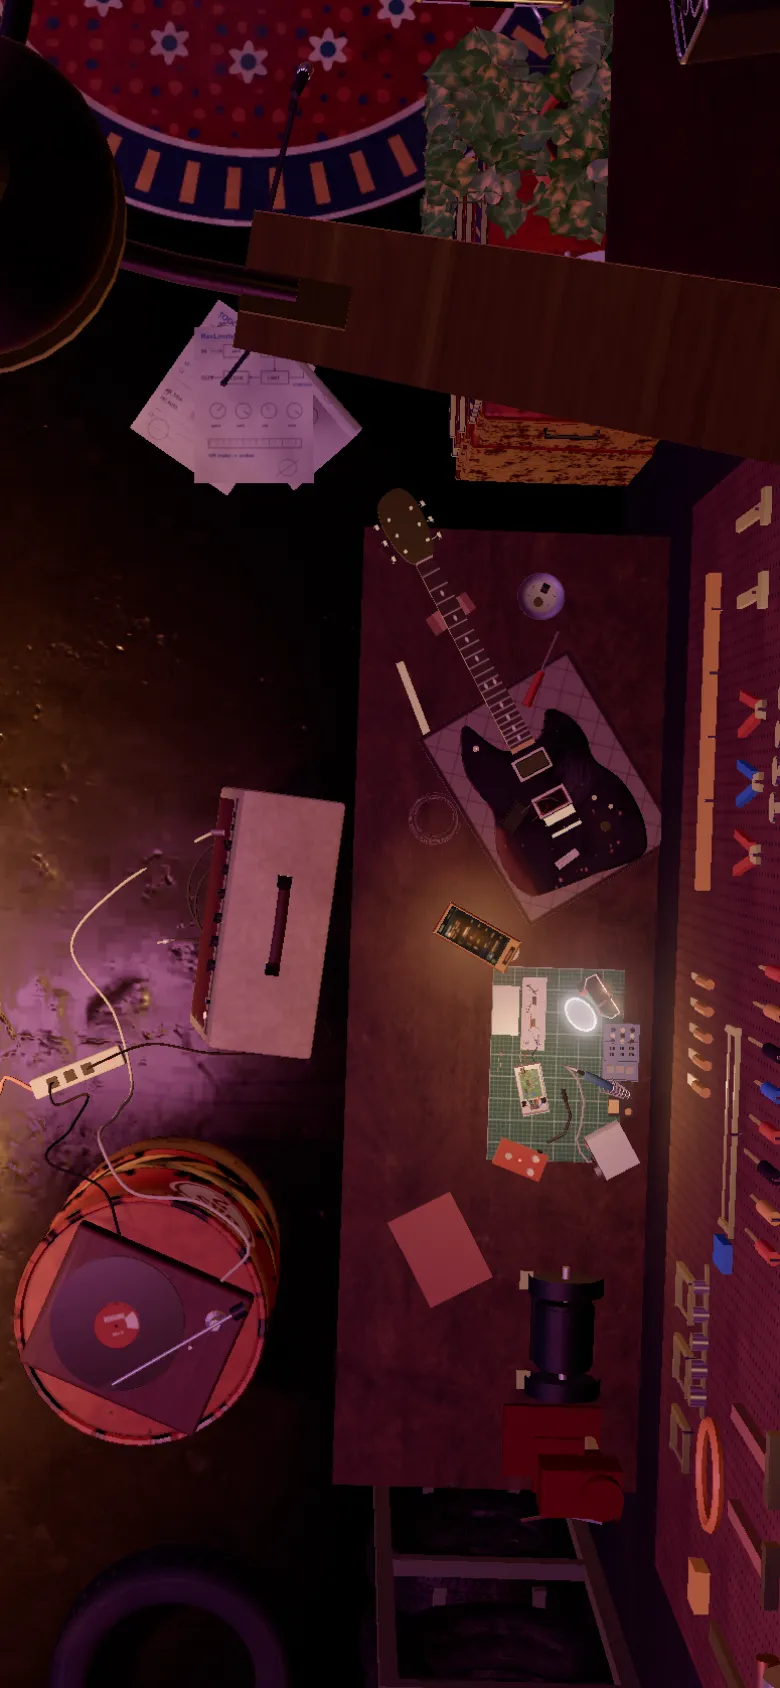
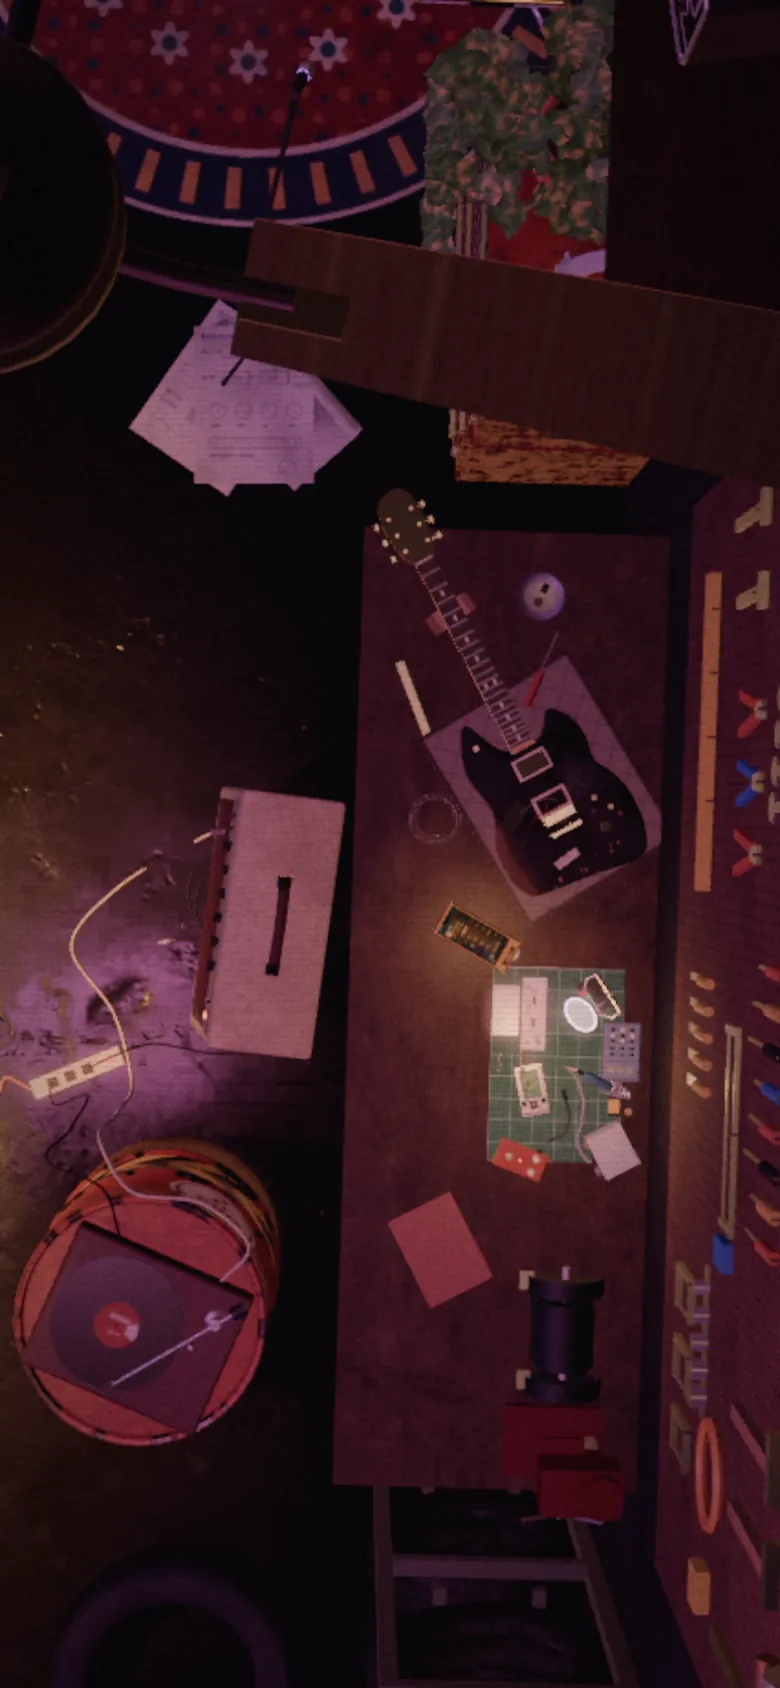
Phone garage: the laptop's VHS, its live room and its walk feel on the dive
Dan 2026-11-24: "all the things we did to the laptop already, like the VHS, and the laptop scroll, and everything should
be applied to the phone".
- room.html ?dive&live: the phone's opening runs the room live as the laptop does (the look's grain moves, the lights
  hum and flicker, the dust, the governor for weak machines); without &live (recordings, stills) it stays the still.
  The look follows the dive (R.lookP, set by the page): VHS eases off from 60 % and is sharp by 88 %, as before the
  laptop's TV, so the phone's screen is crisp at the lock. Every light on from the first frame under ?dive: the live
  room took over the lit first picture dark and warmed up for ~1.5 s (also before this branch).
- phone-dive.html: ?look= is the room's look (vhs default | today | vhs-more), as on the laptop's home page; the phone's
  own look moved to ?body=. The first picture (assets/dive/open-390.webp) re-rendered from the room in VHS.
- The walk's feel (HomeOpening.astro FEEL, Dan's numbers of 11-23, in screens a second): a phone's momentum can't be
  slowed, so the camera is limited (3.6 screens/s) and the page waits for it on the phone's screen: a scroll by hand
  that crosses the lock with the camera still on its way, or that came in faster than 4.6 screens/s, is held on the lock
  (overflow held: it ends the momentum) until the camera lands, a fast one 0.9 s; a move back up lets go at once.
  ?top= ?holdOver= ?holdMs= try other numbers on a phone.
[…]

diff --git a/tools/_home-opening/phone-dive.html b/tools/_home-opening/phone-dive.html
@@ -19,7 +19,8 @@
        ?full       the whole room instead of its phone cut (room.html ?dive), to compare the two
        ?auto       the dive plays itself, down and back (?auto=14: seconds one way)
        ?debug      the scroll's numbers on the picture
-       ?look=shop  the phone's look: brass | shop | radio; ?looks = the three as buttons on the picture
+       ?look=today the room's look, as on the laptop's home page: vhs (the default, Dan's pick 2026-11-18) | today | vhs-more
+       ?body=shop  the phone's own look: brass | shop | radio; ?looks = the three as buttons on the picture
        ?abc        the three versions of the turn as buttons (Dan picked B) -->
 <link rel="preconnect" href="https://fonts.googleapis.com">
 <link rel="preconnect" href="https://fonts.gstatic.com" crossorigin>
@@ -141,7 +142,9 @@ const reduced = matchMedia('(prefers-reduced-motion: reduce)').matches;
 const $ = (id) => document.getElementById(id);
 const frame = $('room'), box = $('box');
 // the room in its phone cut (room.html ?dive: only what this camera sees is loaded); ?full = the whole room, to compare
-frame.src = 'room.html?capture=0&expose' + (Q.has('full') ? '' : '&dive');
+// the room's look, as on the laptop's home page (?look=today | vhs | vhs-more; the room's default is VHS, Dan's pick 2026-11-18)
+const ROOM_LOOK = ['today', 'vhs', 'vhs-more'].includes(Q.get('look')) ? Q.get('look') : null;
+frame.src = 'room.html?capture=0&expose' + (Q.has('full') ? '' : '&dive') + (REC ? '' : '&live') + (ROOM_LOOK ? '&look=' + ROOM_LOOK : ''); // &live: the room runs live as on the laptop (grain, lights, dust, governor); a recording keeps it still
 const clamp = (v, a = 0, b = 1) => Math.min(b, Math.max(a, v));
 const smooth = (a, b, v) => { const t = clamp((v - a) / (b - a)); return t * t * (3 - 2 * t); };
 const easeIO = (t, k) => (t < 0.5 ? Math.pow(2 * t, k) / 2 : 1 - Math.pow(2 * (1 - t), k) / 2);
@@ -158,7 +161,7 @@ const V = (x, y, z) => new THREE.Vector3(x, y, z);
 // ---- the phone, its light, the guitar, the deck, the amp and the second fan are the ROOM's (assets/dive/set.js: the laptop walk has them too). This page aims its camera at the phone. ----
 const SETR = R.set, S = SETR.screen, phone = SETR.phone, fan2 = SETR.fan2; DIVE.phone = SETR.place;
 const setLook = (name) => { if (!SETR.looks.includes(name)) return; if (name !== SETR.look) SETR.setLook(name); DIVE.look = name; for (const b of document.querySelectorAll('[data-look]')) b.setAttribute('aria-pressed', String(b.dataset.look === name)); };
-setLook(SETR.looks.includes(Q.get('look')) ? Q.get('look') : SETR.look); // ?look=brass|shop|radio
+setLook(SETR.looks.includes(Q.get('body')) ? Q.get('body') : SETR.look); // ?body=brass|shop|radio (the phone's own look; ?look= is the room's, as on the home page)
 if (REC) R.modelAnims = (R.modelAnims || []).filter((a) => a.o !== SETR.platter && a.o !== fan2?.userData.rotor); // a recording turns the fan itself (set) and holds the record still
 w.__room.arrange(); // the shadows once more, with the phone in them
 
@@ -229,6 +232,7 @@ if (REC || !Q.has('abc')) $('abc').hidden = true; // Dan picked B: the buttons a
 const liveEl = $('live'), render0 = w.__room.composer.render.bind(w.__room.composer); let liveK = 0, liveSet = -1;
 w.__room.composer.render = (...a) => { if (liveK < 1) render0(...a); };
 function draw(p, dt = 0.016) {
+  if (R.lookP !== p) { R.lookP = p; R.lookMovedAt = performance.now(); } // the room's look follows the dive (VHS eases off before the screen fills the picture, as before the laptop's TV)
   const st = pose(p); shown = p;
   const landed = p >= 0.9995;
   liveK = !landed ? Math.max(0, liveK - dt / 0.1) : REC || hold > 0.35 ? 1 : Math.min(1, liveK + dt / 0.12); // (a fling through the hold: on at once, never caught half-way)
@@ -247,22 +251,51 @@ if (Q.has('auto')) { // ?auto (or ?auto=14: seconds one way): the page scrolls i
 if (Q.has('debug')) { $('dbg').hidden = false; setInterval(() => { $('dbg').textContent = `page scroll ${Math.round(scrollY)} of ${Math.round(walkPx())}\nframe scroll ${Math.round(w.scrollY)}\ndive ${Math.round(shown * 100)} %  camera ${camera.position.y.toFixed(2)} m\nscreen ${innerWidth} x ${innerHeight}`; }, 200); }
 readScroll(); draw(REC ? 0 : target);
 // A thumb's scroll is already smooth (the browser eases its momentum), so on touch the picture follows it almost directly; a mouse wheel comes in steps and gets more easing.
-// Either way the landing is exact: the nearer the scroll is to the end of the dive, the less the picture may trail it, and at the end not at all,
-// so the pinned picture never starts to slide away with the dive still on its way (measured before: up to 35 frames and a fifth of the dive).
+// THE WALK'S FEEL, from the laptop (HomeOpening.astro FEEL, Dan's numbers of 2026-11-23: "I scroll really fast. I want it to be like a limit", and at the
+// screen "it locks him up a little bit ... so he can stay on the main screen"). A phone's scroll is the browser's own momentum, which no page can slow,
+// so here the limit is the CAMERA's: it travels the dive at most FEEL.top screens a second, and the page waits for it at the phone's screen:
+// - the catch: a scroll that crosses the lock (the end of the dive) while the camera is still on its way, or faster than FEEL.holdOver screens a second,
+//   is stopped on the lock (the page's overflow held for that moment: that ends the browser's momentum) and let go once the camera has landed, and a fast
+//   one only FEEL.holdMs after the catch. A move back up lets go at once. Nothing else of the page's scroll changes.
+// - so the landing stays exact: the picture never slides away with the dive still on its way (measured before: up to 35 frames and a fifth of the dive).
+//   Where the hold can't take (the page already past the lock), the camera follows with no trailing, as before.
+// The laptop's numbers in screens: 2,400 px/s and 3,100 px/s over its 612-734 px windows. ?top= ?holdOver= ?holdMs= try others on a phone (no bench there).
+const FEEL = { top: 3.6, holdOver: 4.6, holdMs: 900 };
+for (const k of Object.keys(FEEL)) if (Q.has(k) && isFinite(+Q.get(k)) && +Q.get(k) > 0) FEEL[k] = +Q.get(k);
+const HTML = document.documentElement, scr = () => innerHeight; // (a screen: the window's height, as the laptop's px/s were)
+let vel = 0, vPeak = 0, lastY = scrollY, lastYAt = performance.now(), held = 0, heldFast = false, touchY = null, inputAt = -1e9;
+const byHand = (now) => touchY != null || now - inputAt < 3000; // a thumb on the glass, its momentum (up to ~3 s), or a wheel: never a link's or a script's jump (the laptop's hold is the wheel's alone)
+const release = () => { if (!held) return; held = 0; HTML.style.overflow = ''; };
+addEventListener('scroll', () => {
+  const now = performance.now(), y = scrollY, dy = y - lastY, dms = Math.max(8, now - lastYAt);
+  if (now - lastYAt > 150) vPeak = 0; // (a new scroll: its own top speed)
+  vel = 0.5 * vel + 0.5 * (dy / dms * 1000); vPeak = Math.max(vPeak, vel); lastY = y; lastYAt = now; // px a second, two events averaged; the top speed of this scroll (as the laptop's: how fast it came in, not how fast it is at the line)
+  if (held || REC || reduced || dy <= 0 || !byHand(now)) return;
+  if (y >= diveLen && y - dy < diveLen + 1) { // this scroll crossed the lock, going down
+    const fast = vPeak > FEEL.holdOver * scr();
+    if (fast || shown < 0.9995) { held = now; heldFast = fast; HTML.style.overflow = 'hidden'; scrollTo(0, diveLen); readScroll(); }
+  }
+}, { passive: true });
+addEventListener('touchstart', (ev) => { touchY = ev.touches[0]?.clientY ?? null; vPeak = 0; }, { passive: true });
+addEventListener('touchend', (ev) => { if (!ev.touches.length) { touchY = null; inputAt = performance.now(); } }, { passive: true });
+addEventListener('touchmove', (ev) => { const y = ev.touches[0]?.clientY; if (held && touchY != null && y > touchY + 6) release(); }, { passive: true }); // a thumb pulling the page back up
+addEventListener('wheel', (ev) => { inputAt = performance.now() - 2500; if (held && ev.deltaY < 0) release(); }, { passive: true }); // (a wheel's own scroll ends within 0.5 s)
 const TAU = matchMedia('(pointer: coarse)').matches ? 0.045 : 0.11; let lastT = 0;
 function raf(now) {
   const dt = clamp((now - lastT) / 1000, 0.004, 0.1); lastT = now;
   if (!REC) {
     let next = reduced || shown < 0 ? target : shown + (target - shown) * (1 - Math.exp(-dt / TAU));
-    if (next < target) next = Math.max(next, target - (1 - target) * 0.5);
+    if (!reduced && shown >= 0 && (held || scrollY <= diveLen + 1)) { const cap = FEEL.top * scr() * dt / diveLen; next = clamp(next, shown - cap, shown + cap); } // the speed limit, while the picture is pinned
+    else if (next < target) next = Math.max(next, target - (1 - target) * 0.5); // past the lock: no trailing
     draw(Math.abs(next - target) < 0.0004 ? target : next, dt);
+    if (held && shown >= 0.9995 && (!heldFast || now - held >= FEEL.holdMs)) release(); // landed (and, after a fast one, the short hold): the page is free
   }
   requestAnimationFrame(raf);
 }
 requestAnimationFrame(raf);
 // a recording places the camera itself, and the fans by the clock it gives (seconds)
 clearTimeout(giveUp);
-window.__dive = { DIVE, get p() { return shown; }, get t() { return target; }, get end() { return diveLen; }, look: (n) => { setLook(n); w.__room.arrange(); shown = -1; }, set: (p, sec) => { draw(clamp(p)); if (sec != null) for (const a of [...(R.modelAnims || [])]) if (a.o.name === 'fan_rotor') a.o.rotation.y = sec * 2; if (sec != null && fan2?.userData.rotor) fan2.userData.rotor.rotation.y = sec * 2 + 0.6; }, ready: true };
+window.__dive = { DIVE, FEEL, get held() { return held; }, get p() { return shown; }, get t() { return target; }, get end() { return diveLen; }, look: (n) => { setLook(n); w.__room.arrange(); shown = -1; }, set: (p, sec) => { draw(clamp(p)); if (sec != null) for (const a of [...(R.modelAnims || [])]) if (a.o.name === 'fan_rotor') a.o.rotation.y = sec * 2; if (sec != null && fan2?.userData.rotor) fan2.userData.rotor.rotation.y = sec * 2 + 0.6; }, ready: true };
 // the live room takes over from the first picture once it has drawn a few frames of its own, its fan where the picture has it
 if (!REC && fan2?.userData.rotor) fan2.userData.rotor.rotation.y = 1.4; // (the picture was taken with set(0, 0.4): 0.4 s x 2 rad/s + 0.6)
 await new Promise((res) => { let n = 0; const tick = () => (++n > 12 ? res() : w.requestAnimationFrame(tick)); w.requestAnimationFrame(tick); });

diff --git a/tools/_home-opening/room.html b/tools/_home-opening/room.html
@@ -409,6 +409,10 @@ const STREET_GRADE = 'G1';
 // `keep` (metres on the floor: x from..to, z from..to), the small texture set, one shadowed lamp, no mirror pass, no
 // multisampling, a 1.3 MP picture. Without ?dive nothing here runs: the laptop room is as it was.
 const DIVE = new URLSearchParams(location.search).has('dive') ? { keep: { x: [0.95, 3.9], z: [4.5, 10.5] }, always: ['N40'], pbr: 'assets/pbr/phone/', pic: 384, mp: 1.3e6, dpr: 2, lamps: [0.55, 0.2], shadow: 0.55 } : null;
+// ?dive&live (phone-dive.html, 2026-11-24): the phone's opening is a capture of the camera's place only; the room in it runs
+// live as on the laptop: the look's grain moves, the lights hum and flicker, the dust, the governor for weak machines.
+// Without &live (?rec recordings, stills) it stays the steady still it was
+const LIVE = !!DIVE && new URLSearchParams(location.search).has('live');
 const STREET = DIVE ? null : ((q) => (q === 'none' || q === 'off' ? null : q || STREET_GRADE))(new URLSearchParams(location.search).get('street'));
 const S = { ...DEF, moves: structuredClone(DEF.moves) };
 let stored = {};
@@ -461,7 +465,7 @@ if (LAYOUT && /^[\w-]+$/.test(LAYOUT)) {
     Object.assign(S, DEF, j, { moves: j.moves && typeof j.moves === 'object' ? j.moves : {}, ver: DEF.ver, bench: 0, edit: 0 });
   } catch (e) { console.warn('layout missing:', LAYOUT, e); }
 }
-if (CAPTURE != null) Object.assign(S, { sway: 0, labels: 0, readB: 0, dust: 0, bench: 0, edit: 0, paint: CAPTURE_PAINTED ? 1 : 0 }); // the set for the painter
+if (CAPTURE != null) Object.assign(S, { sway: 0, labels: 0, readB: 0, dust: LIVE ? S.dust : 0, bench: 0, edit: 0, paint: CAPTURE_PAINTED ? 1 : 0 }); // the set for the painter (LIVE: the phone's opening keeps the dust)
 // undo / redo: every saved change is one step (a whole slider or object drag, a toggle, a reset); view state is not
 const UNDO_SKIP = new Set(['bench', 'edit']);
 let hist = null, histAt = 0, restoring = false;
@@ -497,7 +501,7 @@ const hash = (n) => { const x = Math.sin(n * 127.1 + 311.7) * 43758.5453; return
 const rng = (seed) => () => { seed = seed + 0x6D2B79F5 | 0; let t = Math.imul(seed ^ seed >>> 15, 1 | seed); t = t + Math.imul(t ^ t >>> 7, 61 | t) ^ t; return ((t ^ t >>> 14) >>> 0) / 4294967296; };
 const deg = THREE.MathUtils.degToRad;
 const reduced = matchMedia('(prefers-reduced-motion: reduce)').matches || LIGHTS != null; // (a light capture holds every moving thing still: its pictures differ by light only)
-const steady = reduced || CAPTURE != null; // the lights hold still in reduced motion and in a capture: a still never catches a flicker, a dip or a lamp mid-cycle
+const steady = reduced || (CAPTURE != null && !LIVE); // the lights hold still in reduced motion and in a capture: a still never catches a flicker, a dip or a lamp mid-cycle (LIVE: the phone's opening is no still)
 
 // ---------- renderer ----------
 const canvas = $('gl');
@@ -657,7 +661,8 @@ function lookFrame(now) {
   // resampled with the look fully off: softer at the lock on a 1440x900 screen)
   const lk = LOOK_ON, u = finishPass.uniforms, gl = renderer.getContext(), W = gl.drawingBufferWidth, H = gl.drawingBufferHeight;
   const pr = renderer.getPixelRatio() * (LOOK_FLAT ? innerHeight / LOOK_FLAT[1] : 1); // (&flat: the picture's pixels per CSS px on its screen, object-fit cover)
-  const amt = 1 - smooth(lk.off[0], lk.off[1], progress);
+  const P = R.lookP ?? progress; // where the look is: the walk, or under ?dive the dive (phone-dive.html sets R.lookP): the look eases off before the phone's screen fills the picture, as before the TV
+  const amt = 1 - smooth(lk.off[0], lk.off[1], P);
   // under the governor (GOV.k < 1: a weak machine's smaller buffer) the room keeps the pixels per CSS px this screen
   // had before the step, up to the whole target (2026-11-20): a step shrinks the finish, not the room, or the sign went
   // back to mush on the very machines that step. No step, no change
@@ -665,17 +670,17 @@ function lookFrame(now) {
   const k0 = LOOK_FLAT ? lk.k * window.roomRatio(...LOOK_FLAT) / pr : lk.k;
   let kk = Math.min(1, Math.min(k0, lk.dpr * GOV.k / pr) / GOV.k);
   if (lk.move) { // the walk moving (it moved in the last 8 frames): softer, easing in and out over a few frames
-    LK.hold = LK.p != null && Math.abs(progress - LK.p) > 2e-4 && CAPTURE == null ? 8 : Math.max(0, (LK.hold || 0) - 1); LK.p = progress;
+    LK.hold = LK.p != null && Math.abs(P - LK.p) > 2e-4 && (CAPTURE == null || LIVE) ? 8 : Math.max(0, (LK.hold || 0) - 1); LK.p = P;
     LK.m += ((LK.hold > 0 ? 1 : 0) - LK.m) * 0.2;
     kk *= 1 - (1 - lk.move) * LK.m;
   }
-  const v = 1 + (kk - 1) * (lk.sharp ? 1 - smooth(lk.sharp[0], lk.sharp[1], progress) : amt); // the scale the softness asks for here
+  const v = 1 + (kk - 1) * (lk.sharp ? 1 - smooth(lk.sharp[0], lk.sharp[1], P) : amt); // the scale the softness asks for here
   const full = v >= (lk.sharp ? LOOK_SNAP : 1), k = full ? 1 : v; // (full: the whole target, exactly: uK (1, 1), today's own arithmetic)
   const w = full ? W : Math.max(1, Math.round(W * k)), h = full ? H : Math.max(1, Math.round(H * k));
   for (const t of [composer.renderTarget1, composer.renderTarget2]) t.viewport.set(0, 0, w, h);
   u.uK.value.set(w / W, h / H); u.uAmt.value = amt; u.uCss.value = pr;
   u.uSoft.value = full && lk.sharp ? lk.soft * (1 - v) / (1 - LOOK_SNAP) : 0;
-  u.uSeed.value = CAPTURE != null || reduced ? 1 : (LK.n = (LK.n + 1) % 8192); // a still (and reduced motion) holds one grain; the walk's grain moves every frame
+  u.uSeed.value = (CAPTURE != null && !LIVE) || reduced ? 1 : (LK.n = (LK.n + 1) % 8192); // a still (and reduced motion) holds one grain; the walk's grain moves every frame (the phone's live opening too)
   u.uLod.value = Math.log2(Math.max(1, lk.halo.px * pr * (h / H)));
   R.dust.mat.size = 0.02 * (h / H); // (a point's size follows the canvas, not the corner it is drawn in)
   R.wet.visible = false; // dropped: the floor keeps its own highlights
@@ -2450,7 +2455,7 @@ function setBuffer() {
 // Under a look (2026-11-20, lookFrame): a step makes the canvas and the finish smaller, never the room, which is drawn
 // small already and keeps its pixels per CSS px (the sign stays as readable). A step that then buys under 10 % is
 // taken back by the rule above
-const GOV = { k: 1, level: 0, on: CAPTURE == null && new URLSearchParams(location.search).get('governor') !== '0', iv: [], last: 0, from: 0, door: true, before: 0, beforeDoor: true, done: false, log: [] };
+const GOV = { k: 1, level: 0, on: (CAPTURE == null || LIVE) && new URLSearchParams(location.search).get('governor') !== '0', iv: [], last: 0, from: 0, door: true, before: 0, beforeDoor: true, done: false, log: [] };
 window.__gov = GOV;
 const GOV_STEPS = [1, 0.8, 0.64], GOV_SLOW = 1000 / 36, GOV_WALK_SLOW = 1000 / 25;
 function govern(now, drew) {
@@ -2459,7 +2464,7 @@ function govern(now, drew) {
   if (!drew || document.hidden || gap > 250) { GOV.iv.length = 0; return; } // a pause, a hidden tab or a hitch: start over
   if (!GOV.from) GOV.from = now + 1500; // the first frames after the hand-off settle (uploads, the first probe)
   if (now < GOV.from) return;
-  const door = progress < 0.02;
+  const door = (R.lookP ?? progress) < 0.02; // (?dive: the dive's place, which the page sets)
   if (GOV.iv.length && door !== GOV.door) GOV.iv.length = 0; // a window is all door or all walk
   GOV.door = door; GOV.iv.push(gap);
   const span = GOV.iv.reduce((a, b) => a + b, 0);
@@ -2473,7 +2478,7 @@ function govern(now, drew) {
   }
   if (mean <= (door ? GOV_SLOW : GOV_WALK_SLOW)) return; // it holds: nothing changes
   if (GOV.level >= GOV_STEPS.length - 1 || Math.min(devicePixelRatio || 1, 1.75) * GOV_STEPS[GOV.level + 1] < 0.75) { GOV.done = true; return; }
-  if (!door && now - lastScrollAt < 500) return; // mid-walk: only once the walk is at rest (no pop while it moves)
+  if (!door && now - Math.max(lastScrollAt, R.lookMovedAt || 0) < 500) return; // mid-walk: only once the walk is at rest (no pop while it moves; ?dive: the dive)
   GOV.level++; GOV.k = GOV_STEPS[GOV.level]; GOV.before = mean; GOV.beforeDoor = door; setBuffer();
   GOV.log.push({ at: Math.round(now), mean: +mean.toFixed(1), level: GOV.level, door });
 }
@@ -3444,7 +3449,7 @@ updateProbe(); R.probe.due = 0;
 // the loading screen lit the room bank by bank, the TV first: the live room opens with every bank on (the same picture),
 // takes over once the last bank has settled, and the big line comes in a beat later (lights/README.md)
 const LO = CAPTURE == null ? window.lightsOn : null;
-if (LO) INTRO.neon = INTRO.lamps = INTRO.sign = INTRO.tv = [-2, -1];
+if (LO || DIVE) INTRO.neon = INTRO.lamps = INTRO.sign = INTRO.tv = [-2, -1]; // (?dive: the page's first picture is the room lit; the live room takes over on it lit, never warming up under it)
 t0 = performance.now(); frame(t0); // one first frame (dark without the loading screen): the glow, the finish and the floor's mirror compile before the clock starts
 if (LO) { await LO.ready(); R.handoffAt = performance.now(); t0 = R.handoffAt - INTRO.read[0] + 400; LO.handoff(); lenis?.start(); }
 else t0 = performance.now();
